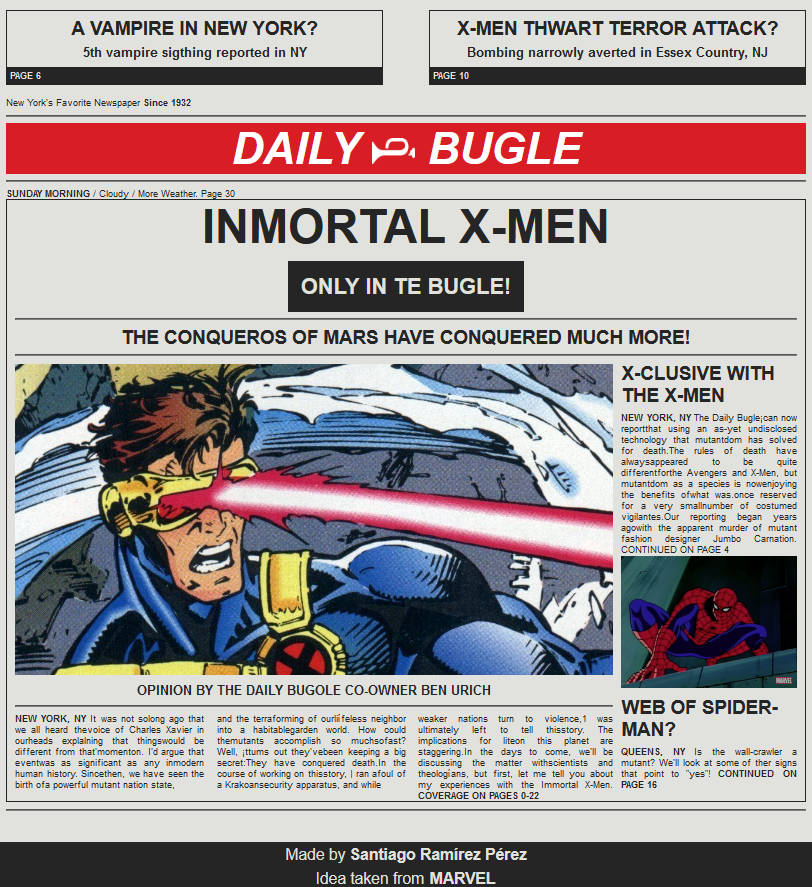
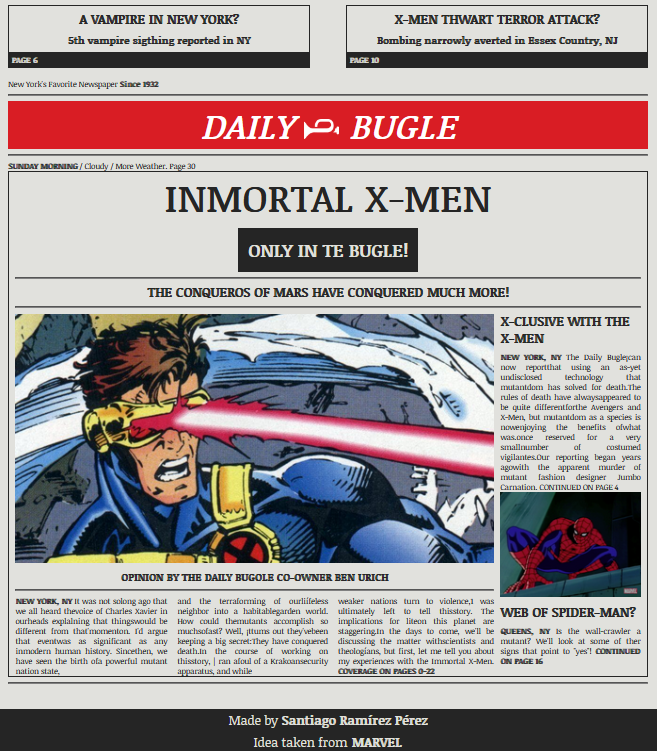
Add files via upload

diff --git a/santiagoramirez10/1-news-paper-html-css/index.html b/santiagoramirez10/1-news-paper-html-css/index.html
@@ -5,6 +5,9 @@
     <meta charset="UTF-8">
     <meta http-equiv="X-UA-Compatible" content="IE=edge">
     <meta name="viewport" content="width=device-width, initial-scale=1.0">
+    <link rel="preconnect" href="https://fonts.googleapis.com">
+<link rel="preconnect" href="https://fonts.gstatic.com" crossorigin>
+<link href="https://fonts.googleapis.com/css2?family=Noticia+Text&display=swap" rel="stylesheet">
     <link rel="stylesheet" href="style.css">
     <title>Inmortal X-Men</title>
 </head>
@@ -37,9 +40,9 @@
                     <h2>inmortal x-men</h2>
                     <h3>only in te bugle!</h3>
                 </div>
-                <hr style="margin: auto 1%;">
+                <hr class="hr-margin-1">
                 <h3>the conqueros of mars have conquered much more!</h3>
-                <hr style="margin: auto 1%;">
+                <hr class= "hr-margin-1">
             </div>
             <div class="div-major">
                 <img src="images/cyclops.jpeg" alt="cyclops X-men">
@@ -51,7 +54,7 @@
                         explalning that thingswould be different from that'momenton. I'd argue that eventwas as
                         significant as any inmodern human history. Sincethen, we have seen the birth ofa powerful mutant
                         nation state,</p>
-                    <p style="padding: 0px 20px;">and the terraforming of ourliífeless neighbor into a habitablegarden
+                    <p class="second-paragraph">and the terraforming of ourliífeless neighbor into a habitablegarden
                         world. How could themutants accomplish so muchsofast? Well, ¡ttums out they'vebeen keeping a big
                         secret:They have conquered death.In the course of working on thisstory, | ran afoul of a
                         Krakoansecurity apparatus, and while</p>
@@ -85,7 +88,7 @@
         </div>
         <div>
             <p>Idea taken from <a href="https://www.marvel.com/articles/comics/x-men-hellfire-gala-2022-highlights"
-                    target="_blank">Marvel</a></p>
+                    target="_blank" rel="noopener">Marvel</a></p>
         </div>
     </footer>
 </body>

diff --git a/santiagoramirez10/1-news-paper-html-css/style.css b/santiagoramirez10/1-news-paper-html-css/style.css
@@ -1,15 +1,20 @@
 * {
     margin: 0px;
     padding: 0px;
-    font-family: Arial, Helvetica, sans-serif;
+    font-family: "Noticia Text", "Arial";
 }
 
 body {
     background-color: #E1E1DD;
+    margin-top: 20px;
 }
 
 hr {
     margin: 10px 0px;
+}
+
+.hr-margin-1 {
+    margin: auto 1%;
 }
 
 .container {
@@ -34,7 +39,7 @@ h2 {
 }
 
 h3 {
-    font-size: 30px;
+    font-size: 25px;
     text-align: center;
     text-transform: uppercase;
     color: #252525;
@@ -64,6 +69,10 @@ p {
     color: #252525;
 }
 
+.second-paragraph {
+    padding: 0px 20px;
+}
+
 span {
     text-transform: uppercase;
     font-weight: bold;
@@ -79,6 +88,7 @@ span {
 .div-header div {
     border: solid 1px #252525;
     width: 600px;
+    margin-top: 10px;
 }
 
 .div-name {
@@ -197,7 +207,6 @@ footer a:hover {
     h4 {
         font-size: 15px;
     }
-
 }
 
 @media (max-width: 950px) {
@@ -217,9 +226,13 @@ footer a:hover {
         padding: 0 !important;
     }
 
+    .div-major {
+        margin: 0% 1%;
+    }
+
     .div-side {
         width: 100%;
-        margin: 0%;
+        margin: 0% 1%;
     }
 }
 
